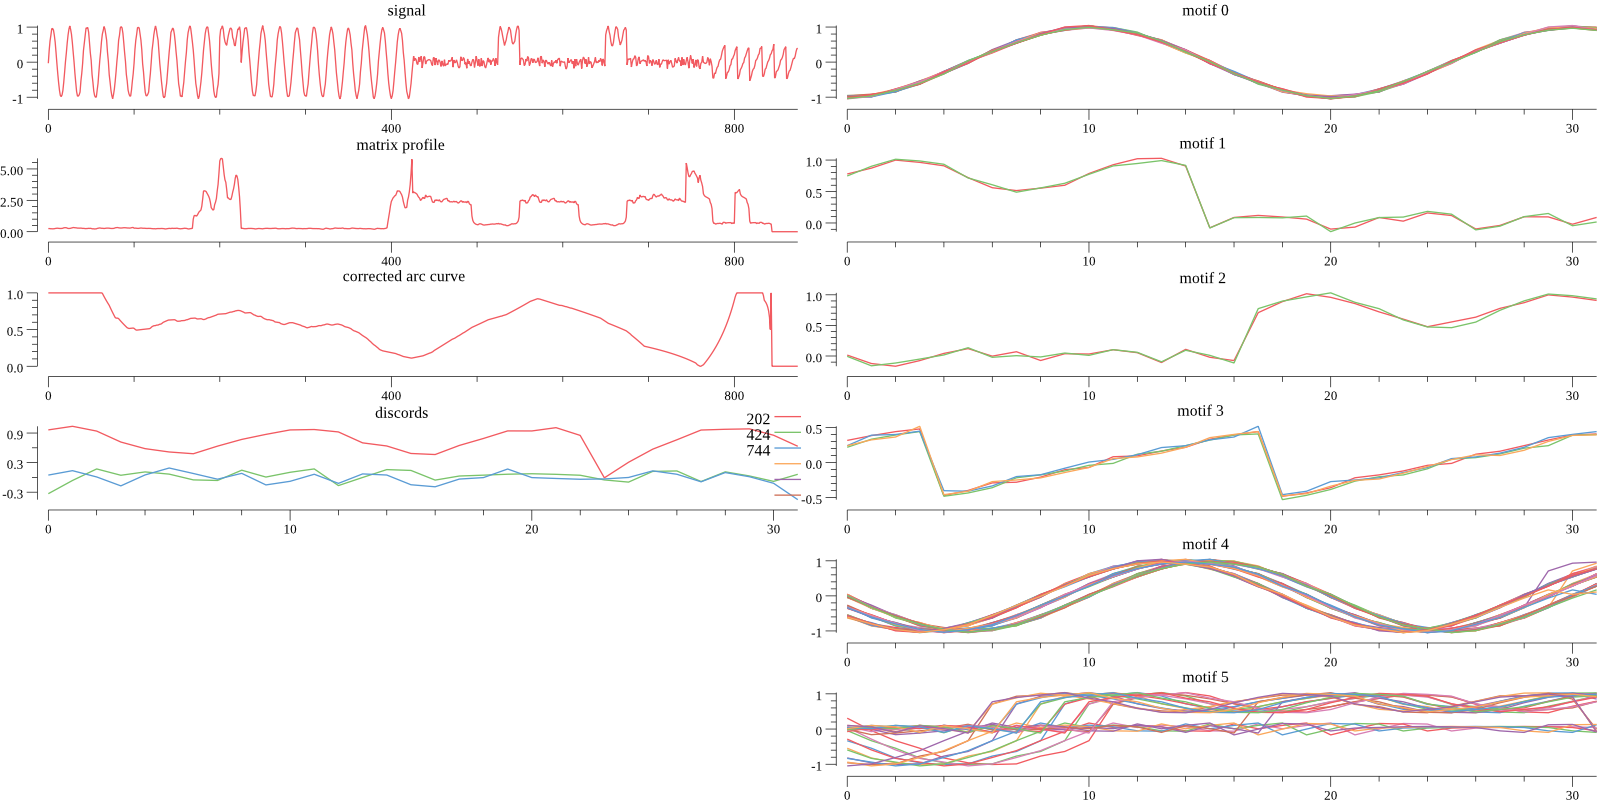
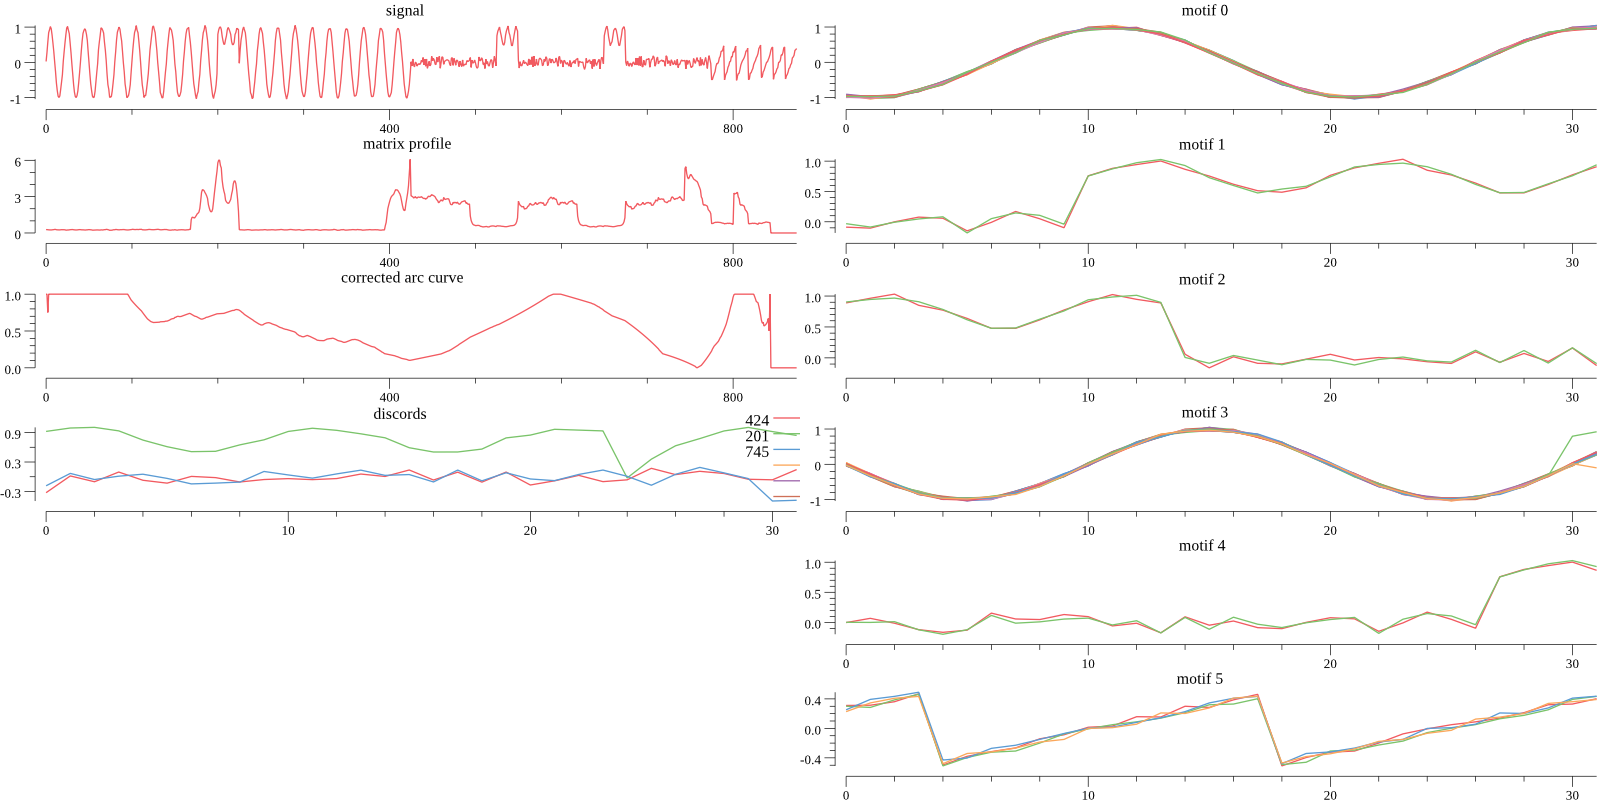
added exta exclusion argument for discord. Updated tests to isolate to just discord functionality

diff --git a/matrixprofile/matrixprofile_test.go b/matrixprofile/matrixprofile_test.go
@@ -510,40 +510,30 @@ func TestStomp(t *testing.T) {
 	}
 }
 func TestDiscords(t *testing.T) {
-	a := []float64{0, 0, 0.50, 0.99, 0.99, 0.50, 0, 0, 0, 0.50, 0.99, 0.10, 0.50, 0, 0, 0, 0.50, 0.99, 0.99, 0.50, 0, 0, 0}
-	a = SigAdd(a, Noise(1e-7, len(a)))
+	mprof := []float64{1, 2, 3, 4}
 
 	testdata := []struct {
-		a                []float64
-		b                []float64
+		mp               []float64
 		k                int
+		exzone           int
 		expectedDiscords []int
 	}{
-		{
-			a, nil, 3,
-			[]int{9, 11, 19},
-		},
+		{mprof, 4, 0, []int{3, 3, 3, 3}},
+		{mprof, 4, 1, []int{3, 1, math.MaxInt64, math.MaxInt64}},
+		{mprof, 10, 1, []int{3, 1, math.MaxInt64, math.MaxInt64}},
+		{mprof, 0, 1, []int{}},
+		{[]float64{}, 3, 1, []int{}},
 	}
 
 	for _, d := range testdata {
-		mp, err := New(d.a, d.b, 4)
-		if err != nil {
-			t.Error(err)
+		mp := MatrixProfile{MP: d.mp}
+		discords := mp.Discords(d.k, d.exzone)
+		if len(discords) != len(d.expectedDiscords) {
+			t.Errorf("Got a length of %d discords, but expected %d, for %v", len(discords), len(d.expectedDiscords), d)
 		}
-		if err = mp.Stmp(); err != nil {
-			t.Error(err)
-		}
-		discords := mp.Discords(d.k)
-		if err != nil {
-			if d.expectedDiscords == nil {
-				continue
-			}
-			t.Error(err)
-		}
-
 		for i, idx := range discords {
 			if idx != d.expectedDiscords[i] {
-				t.Errorf("expected index, %d, but got %d", d.expectedDiscords[i], idx)
+				t.Errorf("expected index, %d, but got %d, for %v", d.expectedDiscords[i], idx, d)
 			}
 		}
 	}

diff --git a/matrixprofile/matrixprofile.go b/matrixprofile/matrixprofile.go
@@ -460,9 +460,14 @@ func (mp MatrixProfile) TopKMotifs(k int, r float64) ([]MotifGroup, error) {
 // Discords finds the top k time series discords starting indexes from a computed
 // matrix profile. Each discovery of a discord will apply an exclusion zone around
 // the found index so that new discords can be discovered.
-func (mp MatrixProfile) Discords(k int) []int {
+func (mp MatrixProfile) Discords(k int, exclusion_zone int) []int {
 	mpCurrent := make([]float64, len(mp.MP))
 	copy(mpCurrent, mp.MP)
+
+	// if requested k is larger than length of the matrix profile, cap it
+	if k > len(mpCurrent) {
+		k = len(mpCurrent)
+	}
 
 	discords := make([]int, k)
 	var maxVal float64
@@ -477,7 +482,7 @@ func (mp MatrixProfile) Discords(k int) []int {
 			}
 		}
 		discords[i] = maxIdx
-		applyExclusionZone(mpCurrent, maxIdx, mp.m/2)
+		applyExclusionZone(mpCurrent, maxIdx, exclusion_zone)
 	}
 	return discords
 }

diff --git a/matrixprofile/example_test.go b/matrixprofile/example_test.go
@@ -156,7 +156,7 @@ func Example() {
 		panic(err)
 	}
 
-	discords := mp.Discords(3)
+	discords := mp.Discords(3, mp.m/2)
 	if err != nil {
 		panic(err)
 	}
